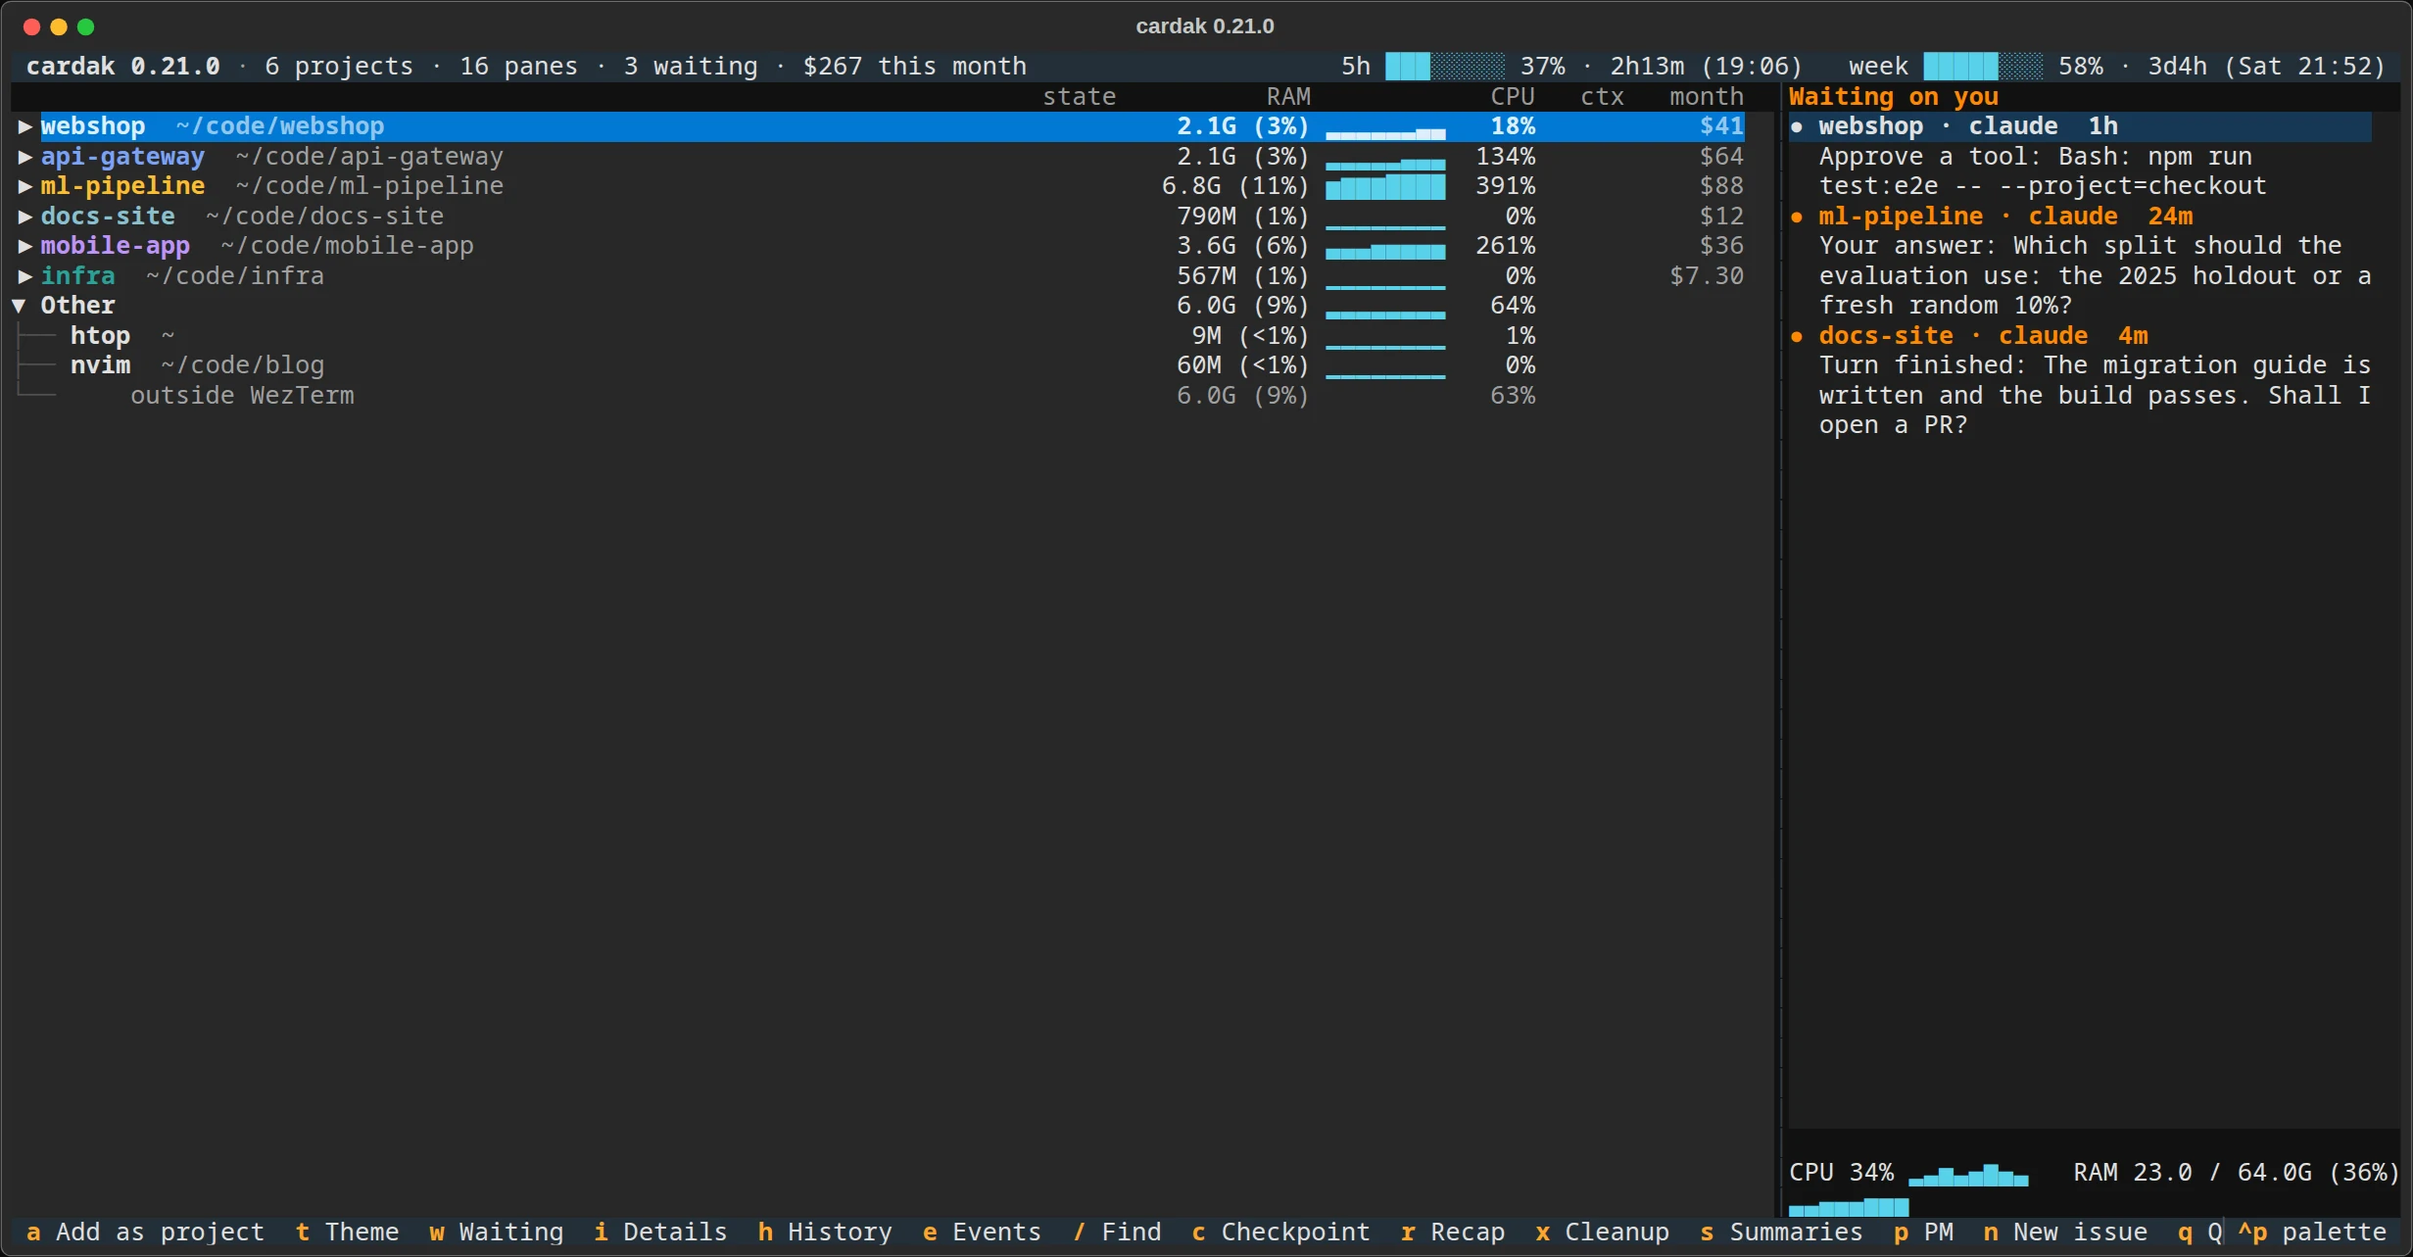
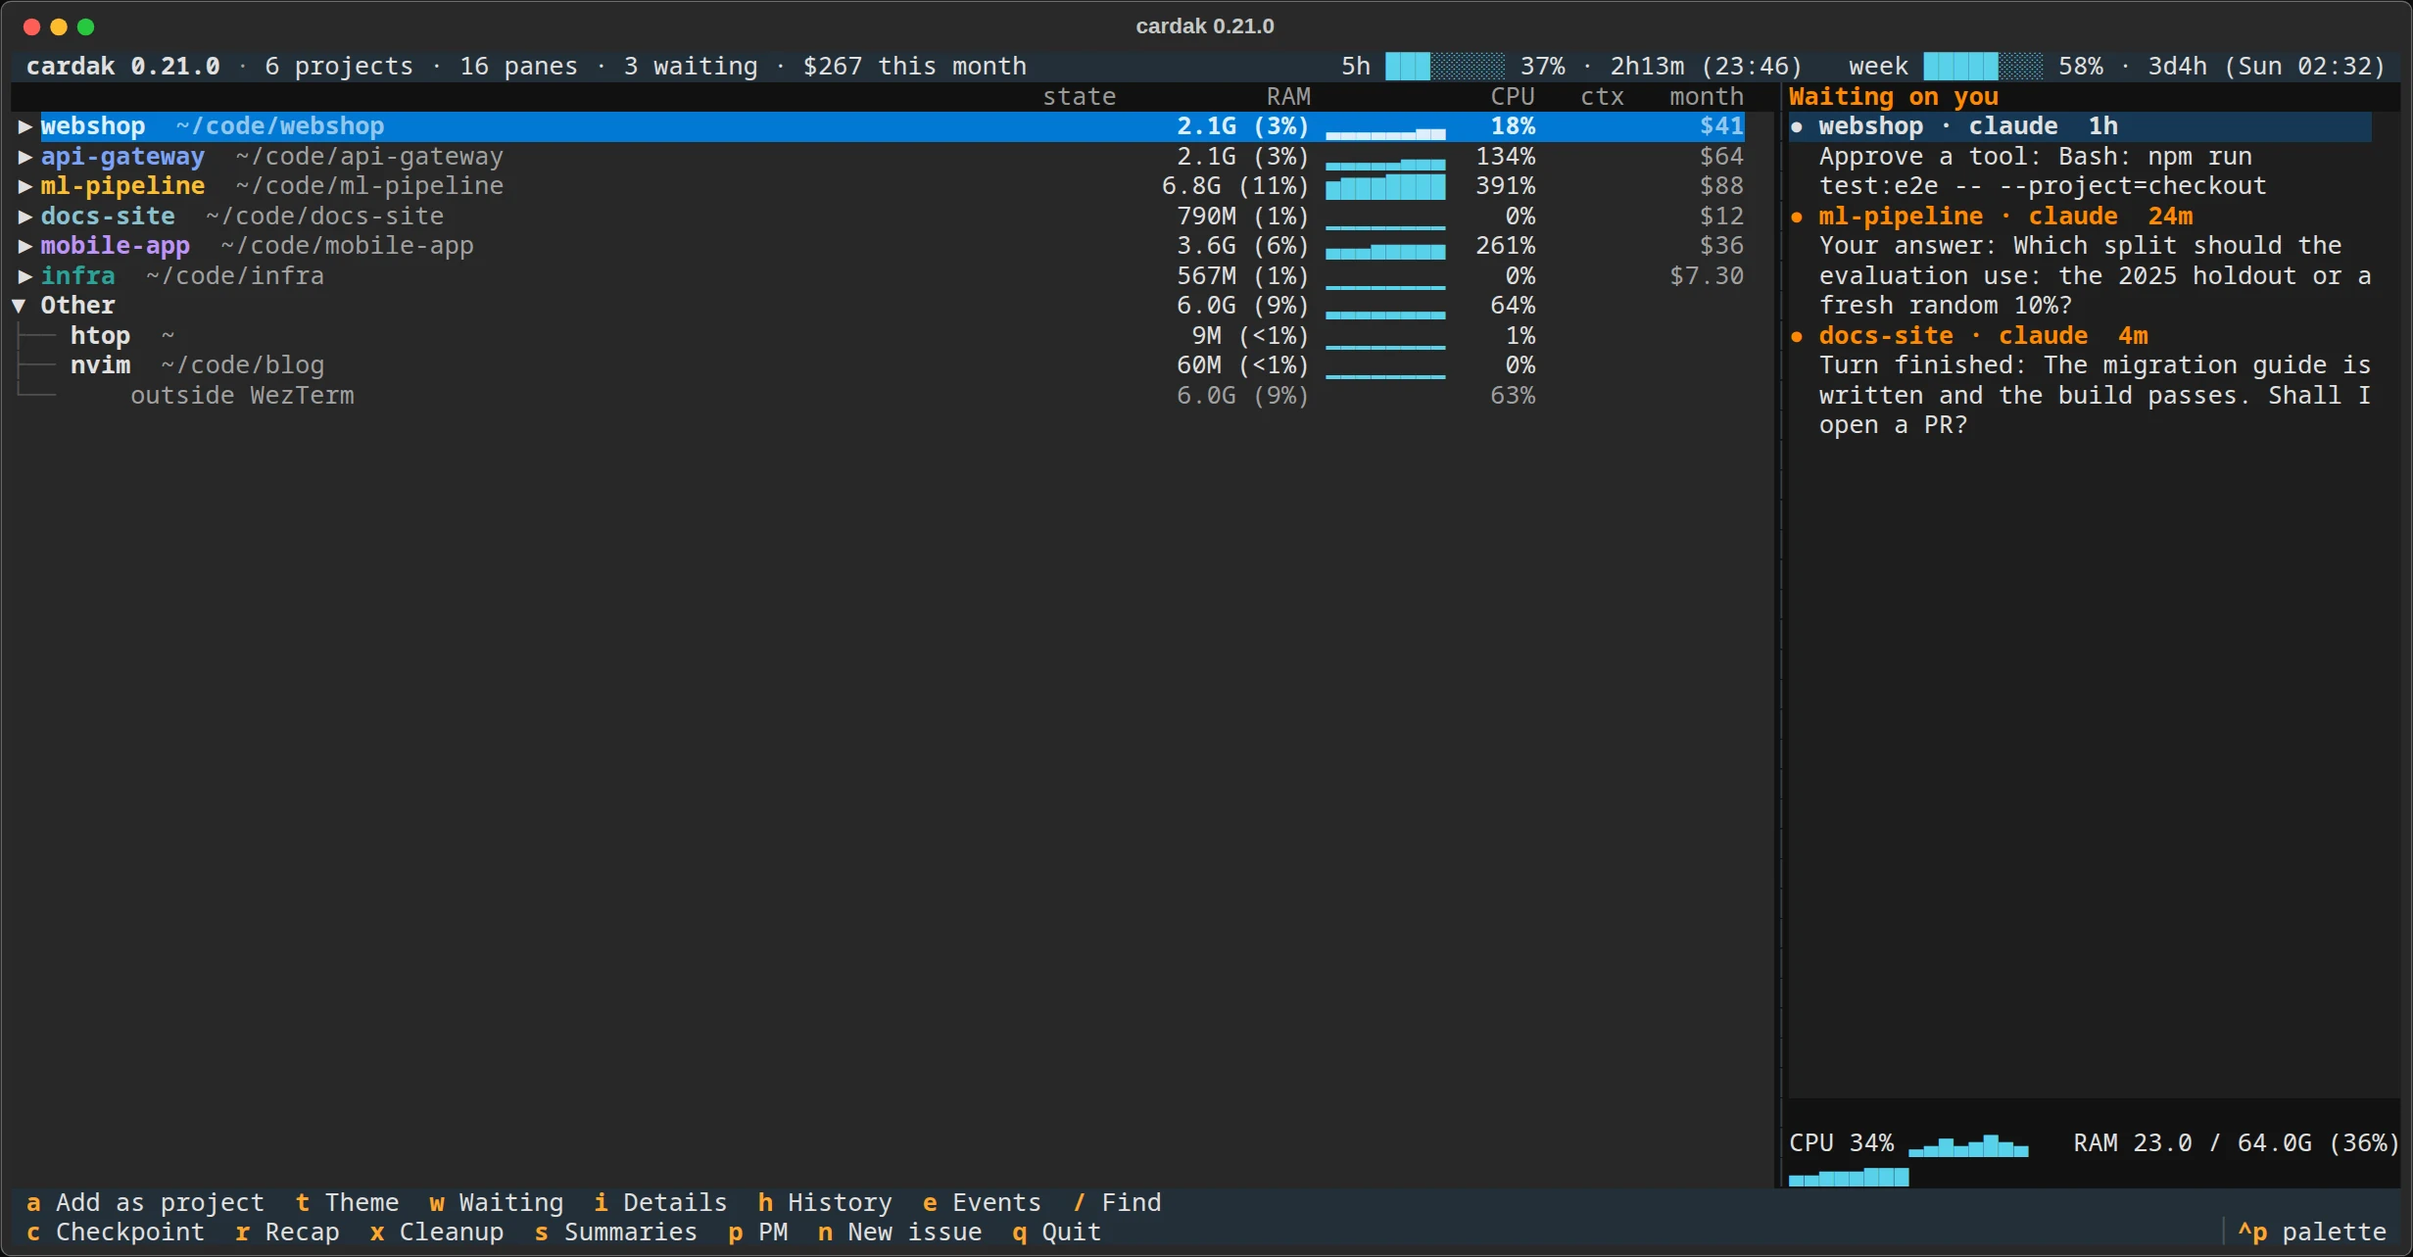
fix(ui): the footer wraps onto more rows when its keys don't fit (#179) (#180)
Every screen now yields WrappingFooter, Textual's footer with its keys laid
out on as few rows as the width allows, evened out, and laid out again when
the width changes. At 160 columns the deck's footer had cut q Quit to q Q.

Claude-Session: https://claude.ai/code/session_01V42KtFQbAK7HWFCYEfik4B

Changed region(s): [[0.0, 0.9041, 1.0, 0.9977], [0.9257, 0.0312, 0.9566, 0.0624], [0.7097, 0.0312, 0.7406, 0.0624]]

diff --git a/src/cardak/ui/footer.py b/src/cardak/ui/footer.py
@@ -1,0 +1,103 @@
+"""The footer every screen shows: Textual's, wrapped onto more rows when its keys don't fit (#179).
+
+Textual's `Footer` is one row that cuts off whatever is past the screen's edge. This one
+lays the same keys out row by row, filling each before starting the next, and lays them
+out again when the screen's width changes which row a key falls on.
+"""
+
+from __future__ import annotations
+
+from rich.cells import cell_len
+from textual import events
+from textual.app import ComposeResult
+from textual.containers import Horizontal
+from textual.widget import Widget
+from textual.widgets import Footer
+from textual.widgets._footer import FooterKey
+
+# FooterKey's padding (Textual 8.2.8; FooterKey is private, so check after upgrading):
+# one cell either side of the key, one after the description.
+KEY_PADDING = 2
+DESCRIPTION_PADDING = 1
+
+
+def key_width(key: Widget) -> int:
+    """The cells a footer key takes up, from what it shows (it isn't laid out yet)."""
+    if not isinstance(key, FooterKey):
+        return 0
+    width = cell_len(key.key_display) + KEY_PADDING
+    if key.description:
+        width += cell_len(key.description) + DESCRIPTION_PADDING
+    return width
+
+
+def _greedy(widths: list[int], limit: int) -> list[int]:
+    sizes: list[int] = []
+    used = count = 0
+    for w in widths:
+        if count and used + w > limit:
+            sizes.append(count)
+            used = count = 0
+        used += w
+        count += 1
+    sizes.append(count)
+    return sizes
+
+
+def row_sizes(widths: list[int], width: int) -> tuple[int, ...]:
+    """How many keys go on each row: as few rows as fit the width, evened out.
+
+    The rows are as many as filling each one in turn would need, and each is kept as short
+    as that number of rows allows, so a second row isn't one key long. A width of 0 (before
+    the footer's first layout) puts everything on one row, and a key wider than the screen
+    gets a row of its own.
+    """
+    if not widths:
+        return ()
+    if width <= 0:
+        return (len(widths),)
+    rows = len(_greedy(widths, width))
+    low, high = max(widths), max(width, max(widths))
+    while low < high:  # the narrowest limit that still needs no more rows
+        mid = (low + high) // 2
+        if len(_greedy(widths, mid)) <= rows:
+            high = mid
+        else:
+            low = mid + 1
+    return tuple(_greedy(widths, low))
+
+
+class WrappingFooter(Footer):
+    """`Footer`, with its keys on as many rows as they need."""
+
+    DEFAULT_CSS = """
+    WrappingFooter {
+        layout: vertical;
+        height: auto;
+    }
+    WrappingFooter > .footer-row {
+        layout: horizontal;
+        width: 1fr;
+        height: 1;
+    }
+    """
+
+    def __init__(self, *args, **kwargs) -> None:
+        super().__init__(*args, **kwargs)
+        self._widths: list[int] = []
+        self._sizes: tuple[int, ...] = ()
+
+    def compose(self) -> ComposeResult:
+        # No cardak binding has a group, so Footer yields its keys one by one (a group's
+        # keys would go inside its KeyGroup, which this doesn't lay out).
+        keys = list(super().compose())
+        self._widths = [key_width(key) for key in keys]
+        self._sizes = row_sizes(self._widths, self.size.width)
+        start = 0
+        for size in self._sizes:
+            yield Horizontal(*keys[start : start + size], classes="footer-row")
+            start += size
+
+    def on_resize(self, event: events.Resize) -> None:
+        if row_sizes(self._widths, event.size.width) != self._sizes:
+            self.call_after_refresh(self.recompose)

diff --git a/tests/test_footer.py b/tests/test_footer.py
@@ -1,0 +1,65 @@
+import sys
+from pathlib import Path
+
+from textual.widgets._footer import FooterKey
+
+from cardak.ui.footer import WrappingFooter, key_width, row_sizes
+
+sys.path.insert(0, str(Path(__file__).parent))
+from test_app import SNAP, DeckApp, StubSource, settle  # noqa: E402
+
+
+def test_everything_fits_on_one_row() -> None:
+    assert row_sizes([10, 10, 10], 30) == (3,)
+
+
+def test_rows_are_evened_out() -> None:
+    # Filling rows in turn would leave one key on the second row.
+    assert row_sizes([10] * 7, 60) == (4, 3)
+
+
+def test_as_many_rows_as_needed() -> None:
+    assert row_sizes([10] * 9, 30) == (3, 3, 3)
+
+
+def test_a_key_wider_than_the_screen_gets_its_own_row() -> None:
+    assert row_sizes([5, 50, 5], 20) == (1, 1, 1)
+
+
+def test_before_layout_everything_is_one_row() -> None:
+    assert row_sizes([10, 10], 0) == (2,)
+
+
+def test_no_keys_no_rows() -> None:
+    assert row_sizes([], 80) == ()
+
+
+def test_key_width_counts_padding() -> None:
+    assert key_width(FooterKey("q", "q", "Quit", "quit")) == 1 + 2 + 4 + 1
+    assert key_width(FooterKey("q", "q", "", "quit")) == 3
+
+
+def rows(footer: WrappingFooter) -> list[list[str]]:
+    return [
+        [key.description for key in row.children if isinstance(key, FooterKey)]
+        for row in footer.query(".footer-row")
+    ]
+
+
+async def test_the_deck_footer_wraps_and_unwraps_with_the_width() -> None:
+    app = DeckApp(StubSource(SNAP), interval=3600)
+    async with app.run_test(size=(200, 40)) as pilot:
+        await settle(app, pilot)
+        footer = app.screen.query_one(WrappingFooter)
+        assert len(rows(footer)) == 1
+        await pilot.resize_terminal(160, 40)
+        for _ in range(3):
+            await pilot.pause()
+        shown = rows(footer)
+        assert len(shown) == 2
+        assert footer.size.height == 2
+        assert "Quit" in shown[1]
+        await pilot.resize_terminal(200, 40)
+        for _ in range(3):
+            await pilot.pause()
+        assert len(rows(footer)) == 1

diff --git a/src/cardak/ui/detail.py b/src/cardak/ui/detail.py
@@ -13,12 +13,13 @@ from textual.binding import Binding
 from textual.containers import VerticalScroll
 from textual.markup import escape
 from textual.screen import Screen
-from textual.widgets import Button, Collapsible, Footer, Header, Static
+from textual.widgets import Button, Collapsible, Header, Static
 
 from cardak.collectors.transcripts import Entry, read_transcript
 from cardak.core.agents import KIND_LABELS, SessionState, tool_summary
 from cardak.core.detail import shown_path, turn_text, words
 from cardak.core.summary import SummaryInfo
+from cardak.ui.footer import WrappingFooter
 from cardak.ui.widgets import IDLE, WAITING, WORKING, age
 
 PAGE = 200
@@ -92,7 +93,7 @@ class DetailScreen(Screen[int | None]):
         yield Header()
         with VerticalScroll():
             yield Static(detail_text(self.state, self.project, time.time(), self.info), id="detail")
-        yield Footer()
+        yield WrappingFooter()
 
     def action_jump(self) -> None:
         self.dismiss(self.pane_id if self.pane_id is not None else self.state.pane_id)
@@ -141,7 +142,7 @@ class TranscriptScreen(Screen[None]):
         with VerticalScroll():
             yield Button("load earlier", id="earlier")
             yield VerticalScroll(id="entries")
-        yield Footer()
+        yield WrappingFooter()
 
     def on_mount(self) -> None:
         self.sub_title = self.title_text

diff --git a/src/cardak/ui/history.py b/src/cardak/ui/history.py
@@ -10,7 +10,7 @@ from textual.app import ComposeResult
 from textual.binding import Binding
 from textual.markup import escape
 from textual.screen import Screen
-from textual.widgets import DataTable, Footer, Header, Static
+from textual.widgets import DataTable, Header, Static
 
 from cardak.core.config import ResourceSettings
 from cardak.core.context import (
@@ -51,6 +51,7 @@ from cardak.core.trends import (
     value,
 )
 from cardak.ui.context_plot import ContextPlotScreen
+from cardak.ui.footer import WrappingFooter
 from cardak.ui.plot import BLANK, braille, level_row
 from cardak.ui.widgets import fmt_count, fmt_usd
 
@@ -232,7 +233,7 @@ class HistoryScreen(Screen[None]):
         yield DataTable(cursor_type="cell", cell_padding=0, id="history")
         yield Static("", id="legend")
         yield Static("", id="hint")
-        yield Footer()
+        yield WrappingFooter()
 
     def on_mount(self) -> None:
         self._fill()
@@ -478,7 +479,7 @@ class PlotScreen(Screen[None]):
         yield Static(title, id="plot-title")
         yield Static("", id="plot")
         yield Static("", id="day")
-        yield Footer()
+        yield WrappingFooter()
 
     def on_mount(self) -> None:
         self._draw()

diff --git a/src/cardak/ui/app.py b/src/cardak/ui/app.py
@@ -17,7 +17,7 @@ from textual.containers import Horizontal, Vertical
 from textual.content import Content
 from textual.markup import escape
 from textual.screen import ModalScreen
-from textual.widgets import Footer, Input, Label, Static, Tree
+from textual.widgets import Input, Label, Static, Tree
 from textual.widgets.tree import TreeNode
 from textual.worker import Worker
 
@@ -37,6 +37,7 @@ from cardak.shared.meta import version
 from cardak.ui.confirm import ConfirmScreen
 from cardak.ui.detail import DetailScreen
 from cardak.ui.events import EventLogScreen
+from cardak.ui.footer import WrappingFooter
 from cardak.ui.history import HistoryScreen
 from cardak.ui.pm import NOT_LISTED, NOT_READ, PmScreen, PmView, open_new_issue
 from cardak.ui.recap import RecapScreen
@@ -434,7 +435,7 @@ class DeckApp(App[None]):
                 yield Static(WAITING_NAME, id="side-title")
                 yield Tree[NodeData]("waiting", id="waiting")
                 yield Static("", id="side-machine")
-        yield Footer()
+        yield WrappingFooter()
 
     @property
     def deck_tree(self) -> Tree[NodeData]:

diff --git a/src/cardak/ui/pm.py b/src/cardak/ui/pm.py
@@ -20,7 +20,7 @@ from textual.binding import Binding
 from textual.containers import Horizontal, Vertical, VerticalScroll
 from textual.message import Message
 from textual.screen import Screen
-from textual.widgets import Footer, Header, OptionList, Static
+from textual.widgets import Header, OptionList, Static
 from textual.widgets.option_list import Option
 
 from cardak.collectors.github import Label
@@ -29,6 +29,7 @@ from cardak.core.agents import Status
 from cardak.core.pm import Band, Board, Card, Done, new_issue_url
 from cardak.core.pm_service import Observed
 from cardak.core.recap import ago
+from cardak.ui.footer import WrappingFooter
 from cardak.ui.widgets import IDLE, WAITING, WORKING, until
 
 LOADING = "Reading GitHub…"
@@ -219,7 +220,7 @@ class PmScreen(Screen[None]):
         yield Header()
         yield Static(LOADING, id="loading")
         yield VerticalScroll(id="bands")
-        yield Footer()
+        yield WrappingFooter()
 
     async def on_mount(self) -> None:
         self.title = "PM · all projects" if self._project is None else "PM"

diff --git a/src/cardak/ui/events.py b/src/cardak/ui/events.py
@@ -6,10 +6,11 @@ from rich.text import Text
 from textual.app import ComposeResult
 from textual.binding import Binding
 from textual.screen import Screen
-from textual.widgets import Footer, Header, Tree
+from textual.widgets import Header, Tree
 
 from cardak.core.eventlog import line_text, log_lines, sentences
 from cardak.core.store import ResourceEvent
+from cardak.ui.footer import WrappingFooter
 
 EMPTY = "No events yet. The daemon writes them: cardak resources install."
 STYLES = {"critical": "bold red", "warning": "yellow", "info": "dim"}
@@ -25,7 +26,7 @@ class EventLogScreen(Screen[None]):
     def compose(self) -> ComposeResult:
         yield Header()
         yield Tree[None]("events", id="events")
-        yield Footer()
+        yield WrappingFooter()
 
     def on_mount(self) -> None:
         self.sub_title = "event log · last 30 days"

diff --git a/src/cardak/ui/context_plot.py b/src/cardak/ui/context_plot.py
@@ -7,7 +7,7 @@ from rich.text import Text
 from textual.app import ComposeResult
 from textual.binding import Binding
 from textual.screen import Screen
-from textual.widgets import Footer, Header, Static
+from textual.widgets import Header, Static
 
 from cardak.core.context import (
     TICKS,
@@ -18,6 +18,7 @@ from cardak.core.context import (
     position,
 )
 from cardak.core.trends import DAYS, first_day
+from cardak.ui.footer import WrappingFooter
 from cardak.ui.plot import BLANK, braille_cells, level_row
 from cardak.ui.widgets import fmt_count
 
@@ -134,7 +135,7 @@ class ContextPlotScreen(Screen[None]):
         yield Static("", id="plot-title")
         yield Static("", id="plot")
         yield Static("", id="day")
-        yield Footer()
+        yield WrappingFooter()
 
     def on_mount(self) -> None:
         self._draw()

diff --git a/src/cardak/ui/recap.py b/src/cardak/ui/recap.py
@@ -8,11 +8,12 @@ from textual import on
 from textual.app import ComposeResult
 from textual.binding import Binding
 from textual.screen import Screen
-from textual.widgets import Footer, Header, Markdown, OptionList, Static
+from textual.widgets import Header, Markdown, OptionList, Static
 
 from cardak.collectors.git import GitState
 from cardak.core import recap
 from cardak.core.recap import Note
+from cardak.ui.footer import WrappingFooter
 
 NO_NOTE = "No checkpoint yet. Press c on an agent pane to write one."
 
@@ -46,7 +47,7 @@ class RecapScreen(Screen[None]):
         yield Markdown("", id="note")
         yield Static("", id="since")
         yield OptionList(id="others")
-        yield Footer()
+        yield WrappingFooter()
 
     def on_mount(self) -> None:
         self.title = f"recap · {self._title}"

diff --git a/AGENTS.md b/AGENTS.md
@@ -56,6 +56,7 @@ src/cardak/
   ui/{app, widgets, theme_picker, detail, events, history, plot, confirm, recap}.py
   ui/summaries.py                                      # #47–#49: `s`, the summary providers
   ui/pm.py                                             # #68: `p` / `P`, the PM view
+  ui/footer.py                                         # #179: the footer every screen shows, wrapped into rows
   ui/context_plot.py                                   # #86: one project's sessions over a day
   web/{view, server, key, lan}.py, page.html          # M7: the read-only page for phones
   web/icon.svg, icon-180.png                          # #106: its favicon and home-screen icon (copies)
@@ -958,3 +959,7 @@ input, #70), `collectors/github.py` (every `gh` call, #68).
 - **#175 (art position in the picker)** adds `config.SPOTS` / `spot_name` /
   `set_project_position` and module 9. Accepted: one more dead-code candidate
   (`ThemePickerScreen.action_move_art`, which Textual calls through the `ctrl+l` binding).
+- **#179 (footer rows)** adds `ui/footer.WrappingFooter`, which every screen yields instead of
+  Textual's `Footer`. Accepted: two more dead-code candidates (`WrappingFooter.compose` and
+  `on_resize`, which Textual calls), and a performance report on `row_sizes` (a binary search
+  over the row width, each step one pass over the screen's dozen or so keys).

diff --git a/CHANGELOG.md b/CHANGELOG.md
@@ -9,6 +9,12 @@ for fixes, dependencies and internal work. See "Versioning and releases" in
 
 ## Unreleased
 
+### Fixed
+
+- The footer's keys wrap onto a second row (or more) when the window is too narrow for
+  them, instead of the last ones being cut off. The deck at 160 columns showed `q Quit`
+  as `q Q` (#179).
+
 ## 0.21.0 — 2026-11-18
 
 ### Added
